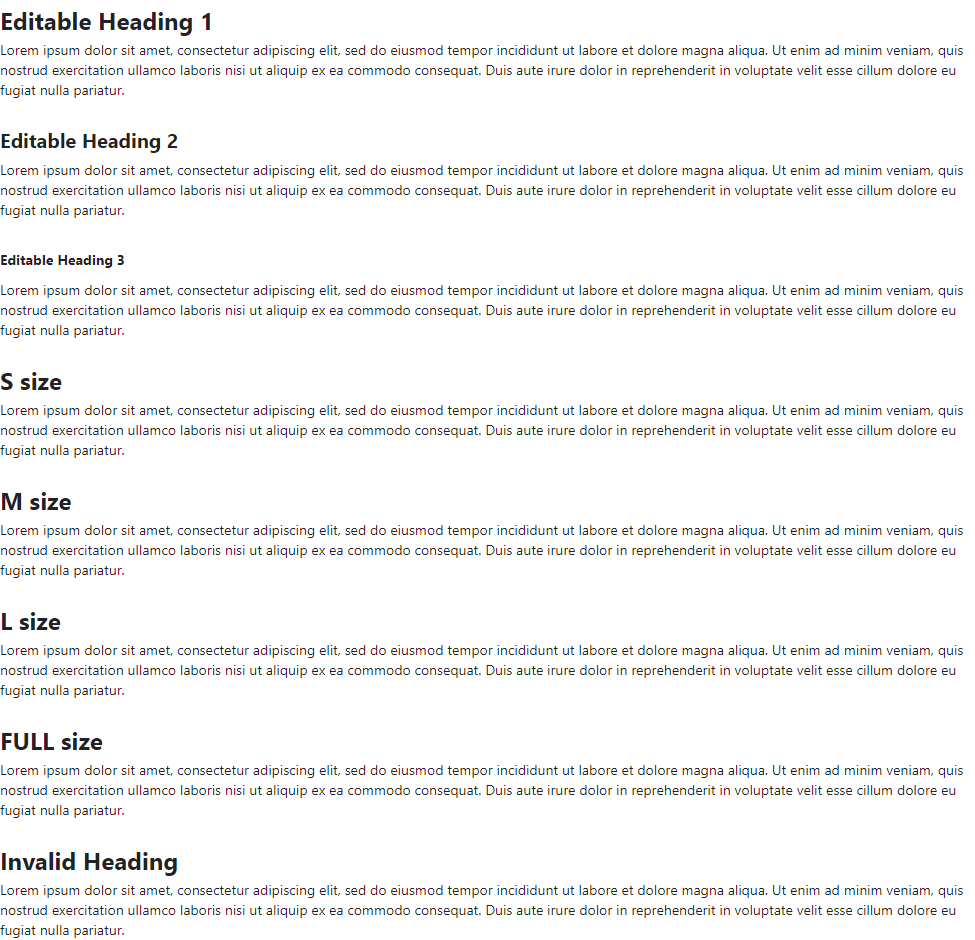
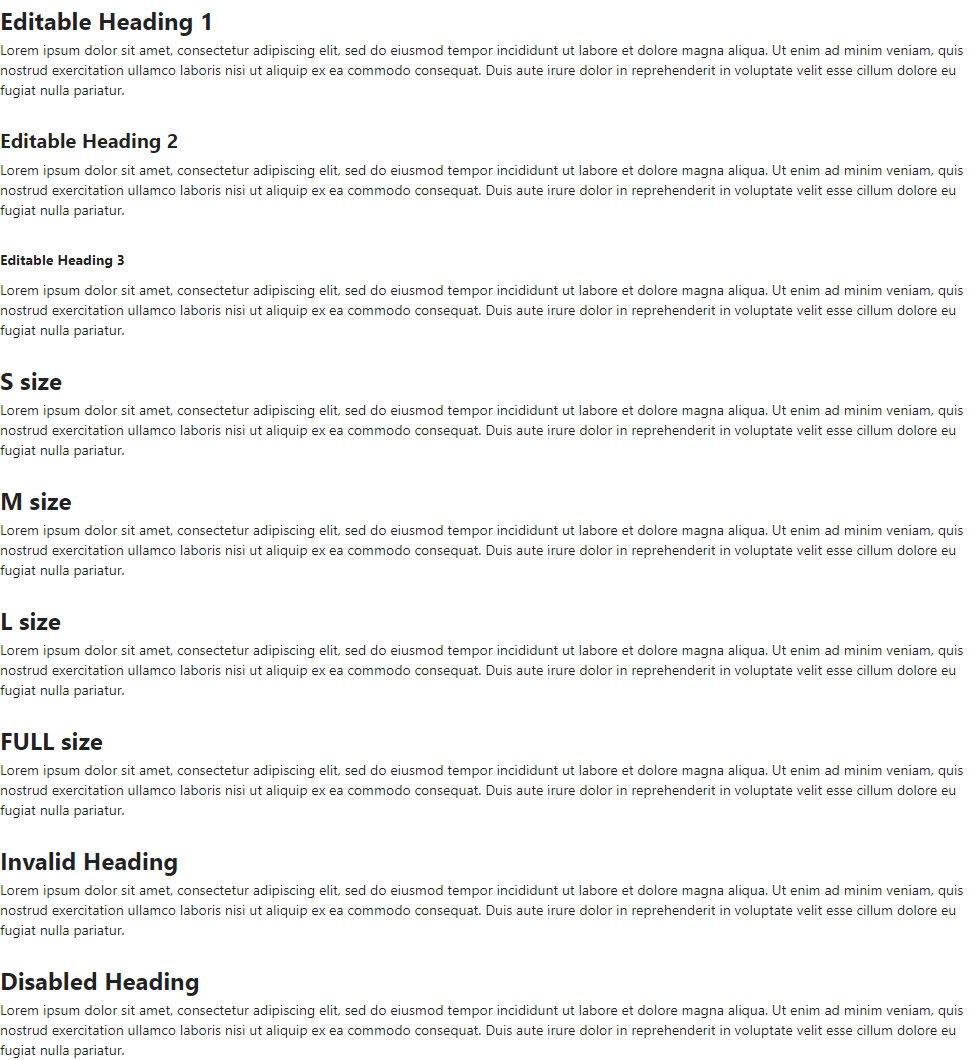
Editable Heading. Support disabled, headingClassName and inputClassName props [publish]

Changed region(s): [[0.0, 0.0, 0.9846, 1.0]]

diff --git a/src/editable-heading/editable-heading.tsx b/src/editable-heading/editable-heading.tsx
@@ -16,6 +16,8 @@ export {Levels};
 export type EditableHeadingProps = Omit<InputHTMLAttributes<HTMLInputElement>, 'size'> & {
   level?: Levels;
   className?: string | null;
+  headingClassName?: string | null;
+  inputClassName?: string | null;
   editing?: boolean;
   edited?: boolean;
   children?: string;
@@ -28,6 +30,7 @@ export type EditableHeadingProps = Omit<InputHTMLAttributes<HTMLInputElement>, '
   autoFocus?: boolean;
   'data-test'?: string | null;
   error?: boolean;
+  disabled?: boolean;
 };
 
 function noop() {}
@@ -36,21 +39,40 @@ const shortcutsScope = getUID('ring-editable-heading-');
 
 export const EditableHeading = (props: EditableHeadingProps) => {
   const {
-    level = Levels.H1, className, editing, edited, children,
-    placeholder, embedded = false, size = Size.L,
-    onEdit, onSave = noop, onCancel = noop,
-    autoFocus, 'data-test': dataTest, error,
+    level = Levels.H1, className, headingClassName, inputClassName,
+    editing, edited, children, placeholder, embedded = false,
+    size = Size.L, onEdit, onSave = noop, onCancel = noop,
+    autoFocus, 'data-test': dataTest, error, disabled,
     ...restProps
   } = props;
 
   const classes = classNames(styles.editableHeading, className, {
     [styles.fullSize]: size === Size.FULL,
-    [styles.error]: error
+    [styles.error]: error,
+    [styles.disabled]: disabled
   });
+
+  const headingClasses = classNames(styles.heading, headingClassName);
+
+  const inputClasses = classNames(
+    'ring-js-shortcuts',
+    styles.input,
+    inputStyles[`size${size}`],
+    styles[`level${level}`],
+    inputClassName
+  );
+
+  const onClick = () => {
+    if (disabled || !onEdit) {
+      return undefined;
+    }
+
+    return onEdit();
+  };
 
   return (
     <div className={classes}>
-      {editing
+      {!disabled && editing
         ? (
           <>
             {!embedded && (
@@ -61,7 +83,7 @@ export const EditableHeading = (props: EditableHeadingProps) => {
             )}
 
             <input
-              className={classNames('ring-js-shortcuts', styles.input, inputStyles[`size${size}`], styles[`level${level}`])}
+              className={inputClasses}
               value={children}
               placeholder={placeholder}
               autoFocus={autoFocus}
@@ -72,9 +94,9 @@ export const EditableHeading = (props: EditableHeadingProps) => {
         )
         : (
           <Heading
-            className={styles.heading}
+            className={headingClasses}
             level={level}
-            onClick={onEdit}
+            onClick={onClick}
             data-test={dataTest}
           >{children}</Heading>
         )

diff --git a/src/editable-heading/editable-heading.examples.tsx b/src/editable-heading/editable-heading.examples.tsx
@@ -3,7 +3,7 @@ import React from 'react';
 import reactDecorator from '../../.storybook/react-decorator';
 import {Size} from '../input/input';
 
-import EditableHeading, {Levels} from './editable-heading';
+import EditableHeading, {EditableHeadingProps, Levels} from './editable-heading';
 
 const lorem = (
   <div>
@@ -24,24 +24,15 @@ export default {
 };
 
 export const basic = () => {
-  interface Props {
-    level?: Levels;
-    children: string;
-    size?: Size;
-    error?: boolean;
-  }
-
-  const ExampleEditableHeading = ({level, size, error, children: initChildren}: Props) => {
+  const ExampleEditableHeading = (props: EditableHeadingProps) => {
+    const {children: initChildren, ...restProps} = props;
     const [editing, setEditing] = React.useState(false);
     const [children, setChildren] = React.useState(initChildren);
     return (
       <EditableHeading
-        level={level}
-        size={size}
         editing={editing}
         edited={children !== initChildren}
         placeholder="Enter the field name"
-        error={error}
         onEdit={() => setEditing(!editing)}
         onChange={e => setChildren(e.target.value)}
         onSave={() => setEditing(false)}
@@ -51,6 +42,7 @@ export const basic = () => {
         }}
         className="example-editable-heading"
         autoFocus
+        {...restProps}
       >{children}</EditableHeading>
     );
   };
@@ -79,6 +71,9 @@ export const basic = () => {
       {lorem}
 
       <ExampleEditableHeading error>Invalid Heading</ExampleEditableHeading>
+      {lorem}
+
+      <ExampleEditableHeading disabled>Disabled Heading</ExampleEditableHeading>
       {lorem}
     </div>
   );

diff --git a/src/editable-heading/editable-heading.css b/src/editable-heading/editable-heading.css
@@ -25,6 +25,12 @@
   &:hover {
     background-color: var(--ring-hover-background-color);
   }
+
+  @nest .disabled &:hover {
+    cursor: initial;
+
+    background-color: initial;
+  }
 }
 
 .input {
